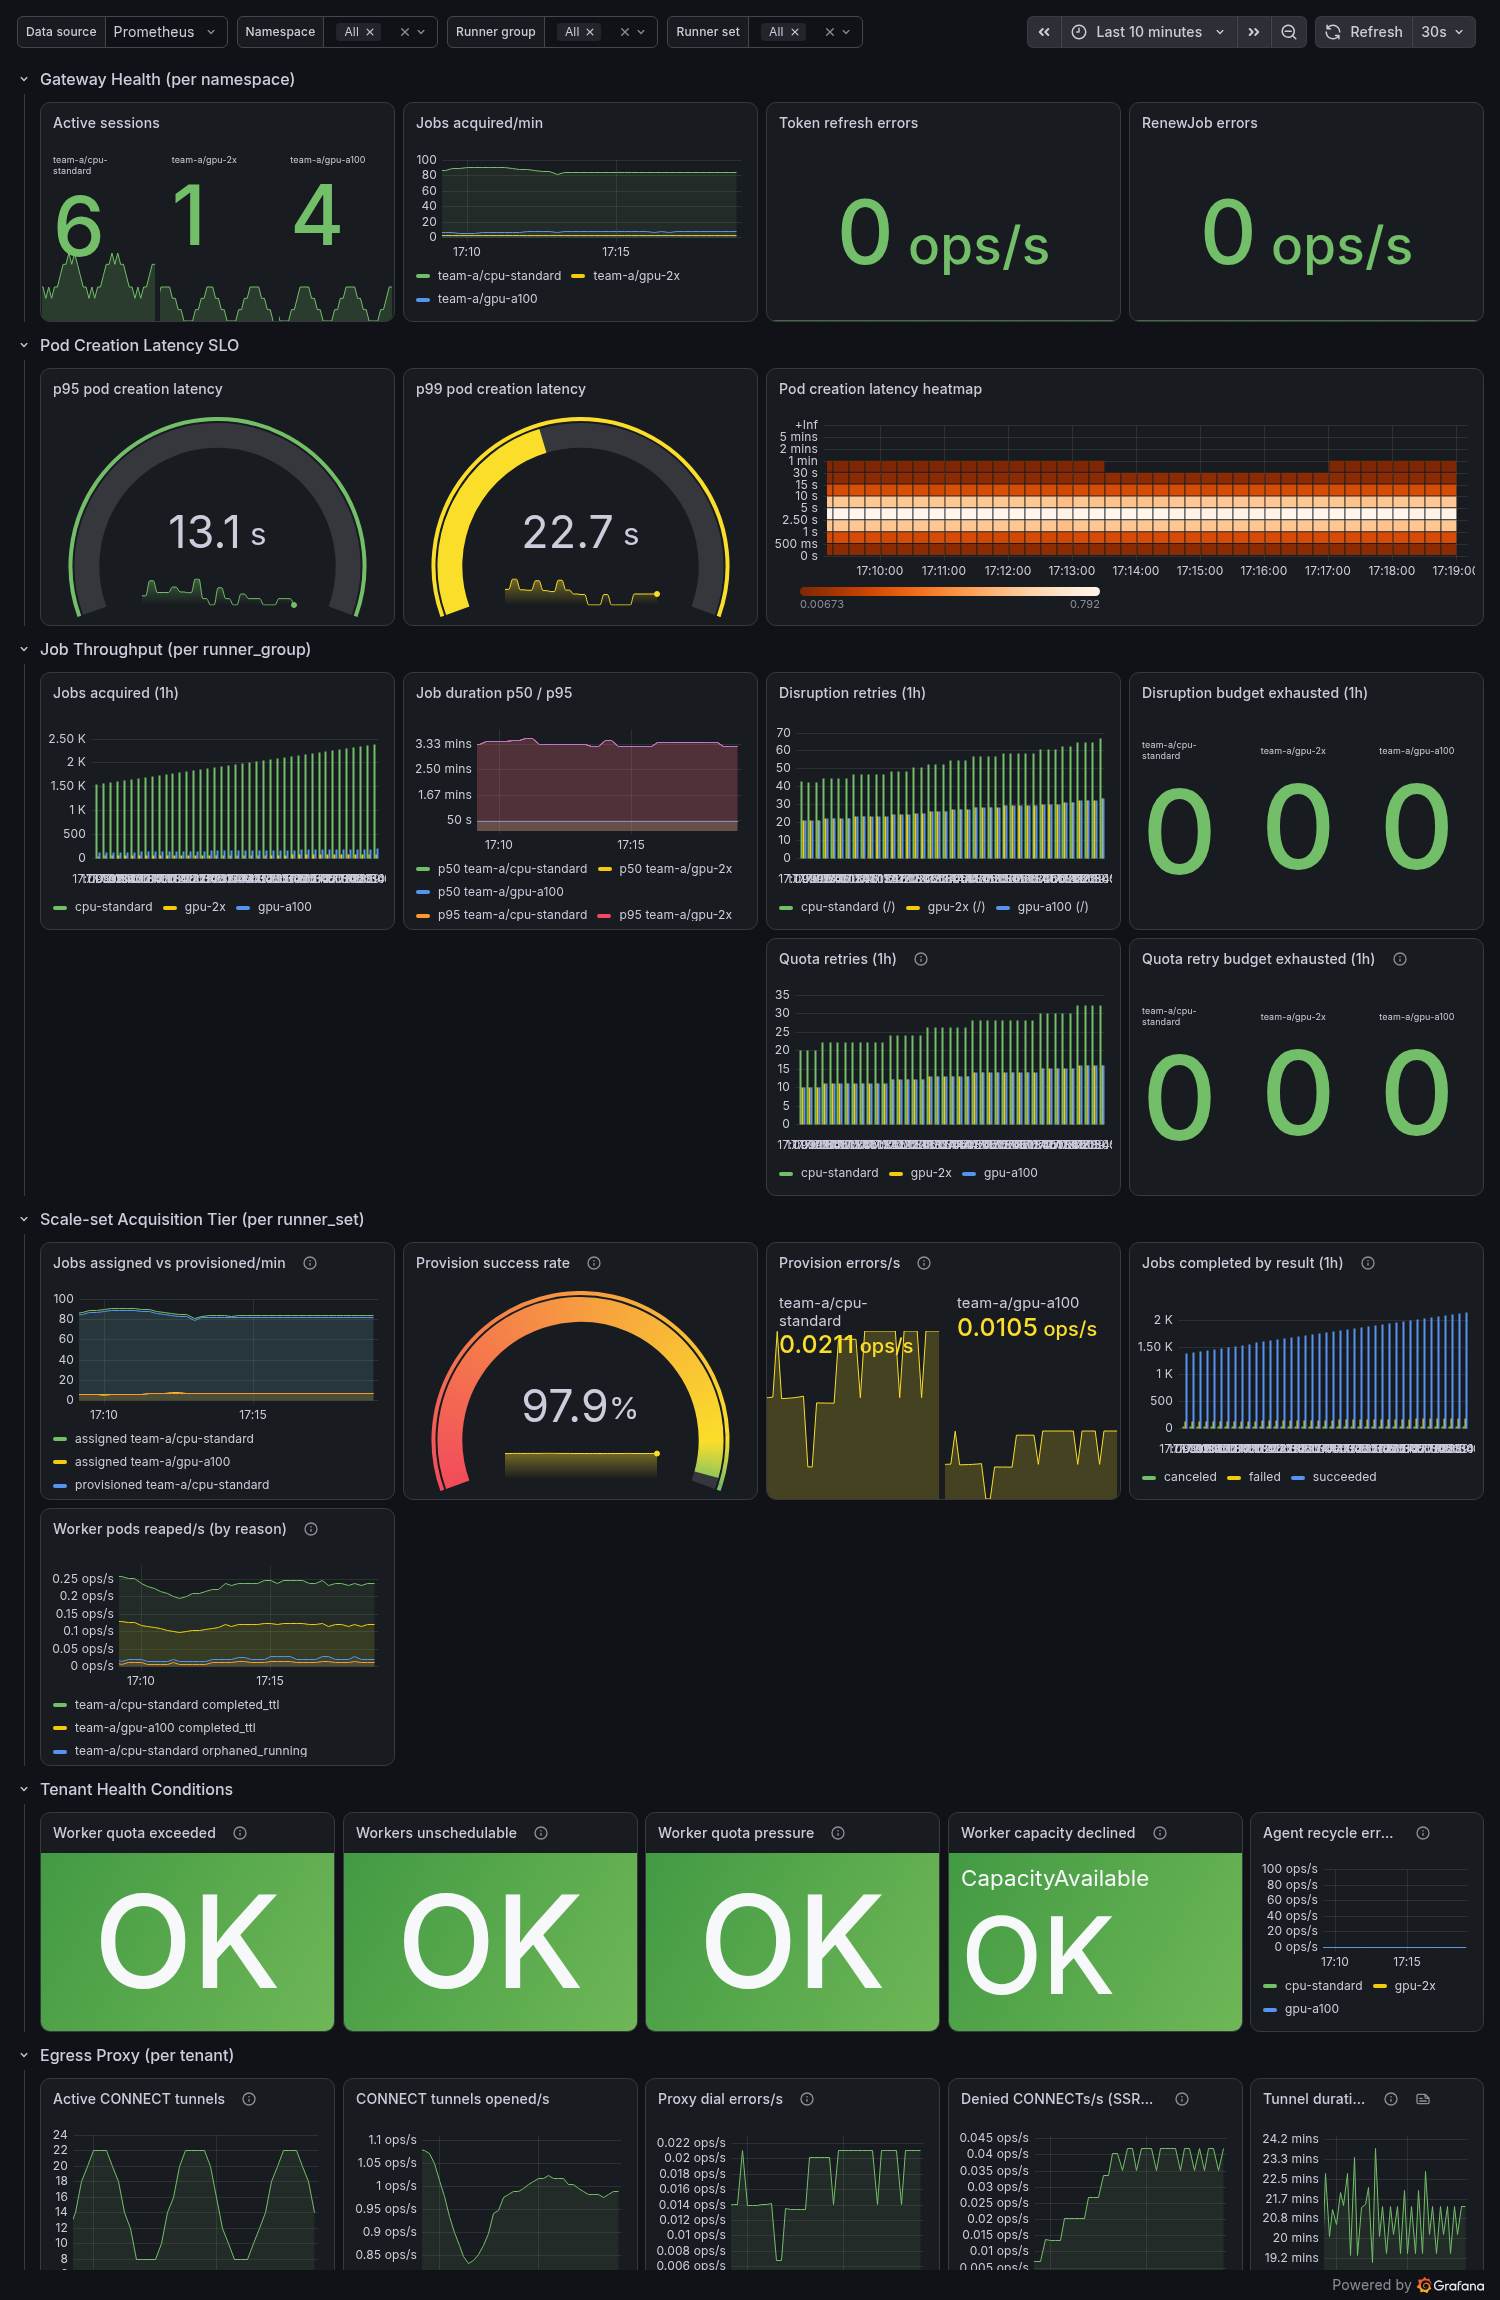
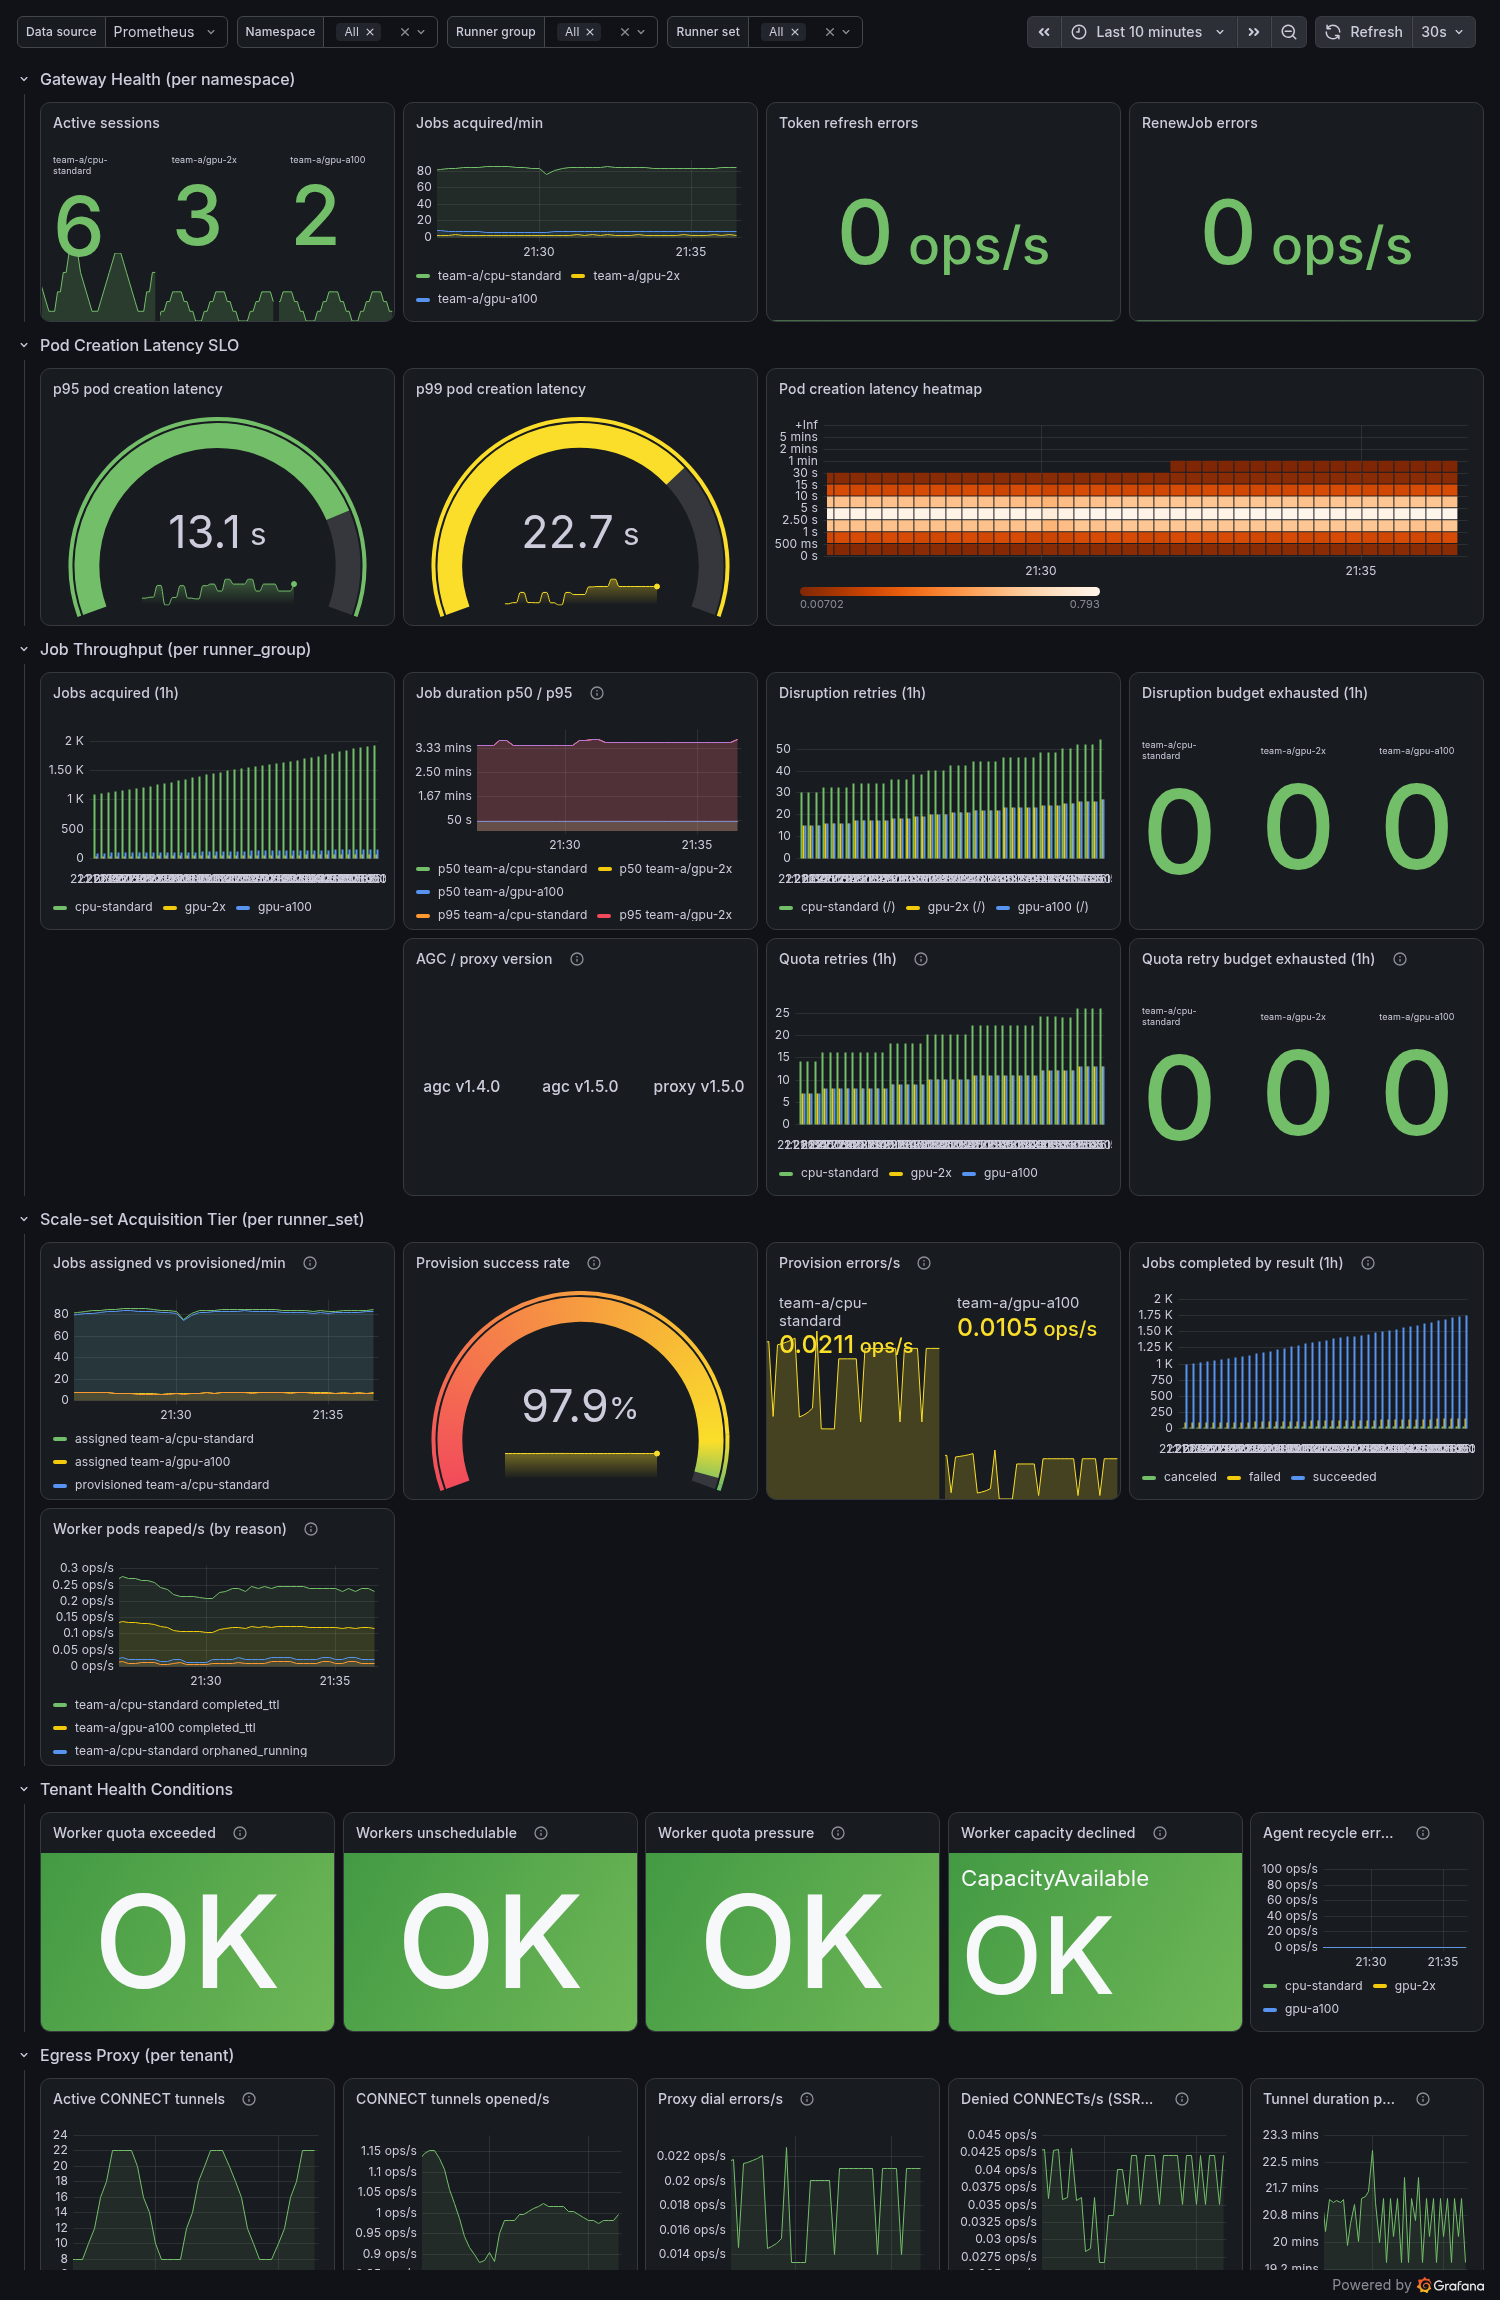
docs(monitoring): regenerate the dashboard screenshots for the new panels
Rendered through deploy/monitoring/preview/render.sh against a throwaway kind
cluster running the real kube-prometheus-stack, so the published screenshots
show the panels the artifacts now ship.

The platform panel became a stat on the strength of that render: as a bar gauge
every count sat at 1 and the bars read empty, which conveyed nothing. A stat
shows the component, the version and the count.

diff --git a/docs/operations/observability-dashboards.md b/docs/operations/observability-dashboards.md
@@ -125,7 +125,7 @@ Labelled by `runner_set` (not `runner_group`), so the `$runner_group` variable d
 
 ## Platform dashboard
 
-![The platform/fleet Grafana dashboard rendered against a live Prometheus: fleet-overview stats, GMC control-plane reconcile health, a per-gateway condition state-timeline, and cross-tenant throughput rows.](../assets/grafana-dashboard-platform.png)
+![The platform/fleet Grafana dashboard rendered against a live Prometheus: fleet-overview stats, GMC control-plane reconcile health, a per-gateway condition state-timeline, cross-tenant throughput, and a build-versions row.](../assets/grafana-dashboard-platform.png)
 
 Fleet-wide; `$namespace` filters the cross-tenant rows.
 
@@ -164,7 +164,7 @@ Fleet-wide; `$namespace` filters the cross-tenant rows.
 
 | Panel | Query | Visualization |
 |-------|-------|---------------|
-| Running versions by component | `count by (component, version) (actions_gateway_build_info)` | Bar gauge, instances per component and version |
+| Running versions by component | `count by (component, version) (actions_gateway_build_info)` | Stat, one tile per component and version with the instance count |
 
 The fleet's version spread during a staggered upgrade, and the answer to which tenants have crossed a semantics change: `job_duration_seconds` changed span at v1.5.0 without a rename ([upgrade note](upgrade.md#non-breaking-job_duration_seconds-now-measures-worker-pod-lifetime-the-classic-tier-span-shrinks)).
 The GMC comes from this dashboard's own scrape; `agc` and `proxy` need the per-tenant scrapes, so a platform-only Prometheus shows one bar. `actions_gateway_build_info` carries no `namespace` label, so `$namespace` does not filter this row. | Pod creation p99 by namespace | `actions_gateway:pod_creation_latency_seconds:p99` | Time series, both acquisition tiers |
